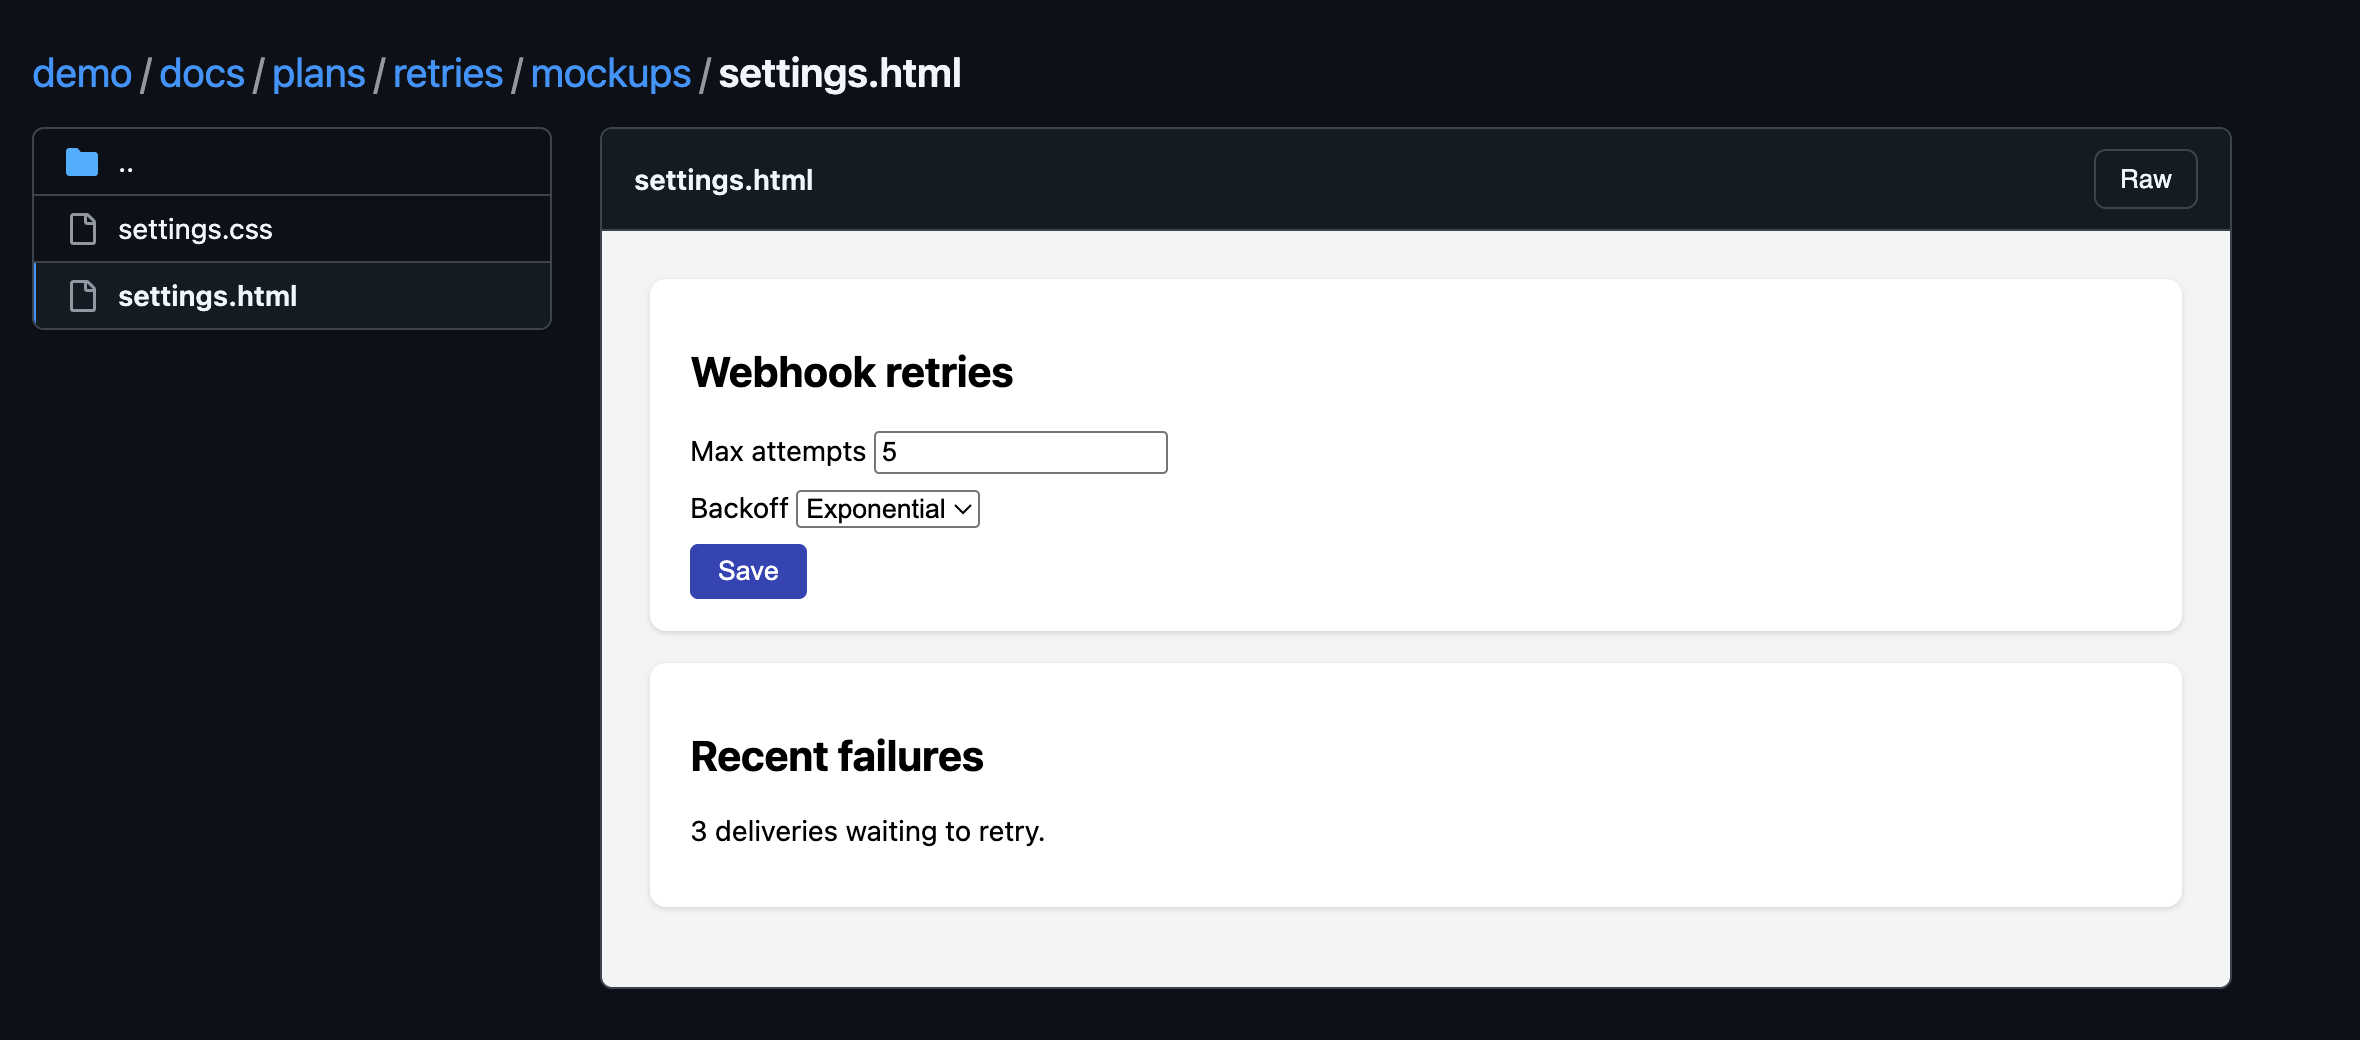
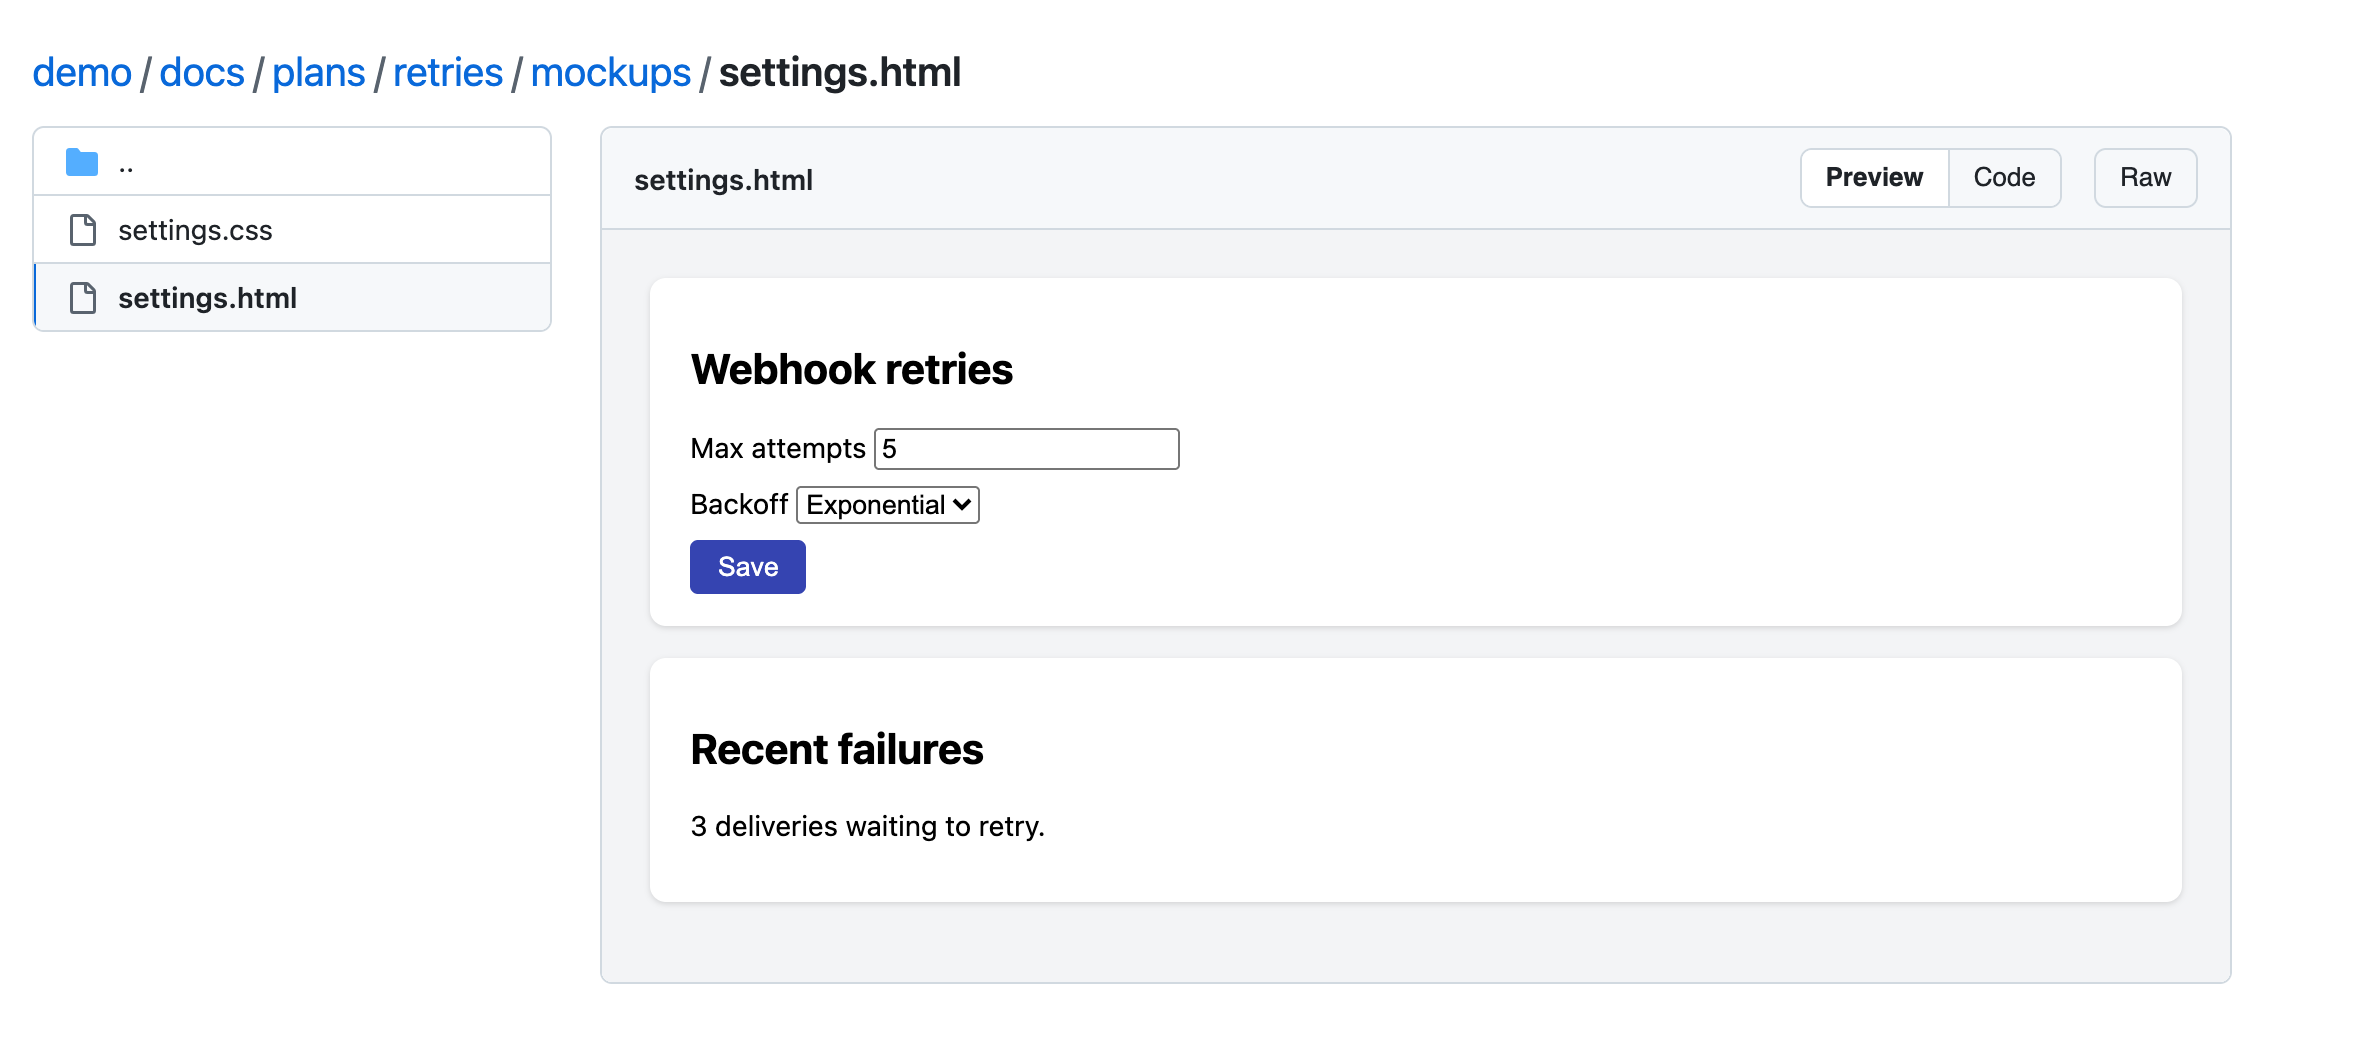
feat(markdown-preview): Preview | Code switch for mockups and SVGs
A mockup or SVG shows drawn by default; the header's switch shows its
source instead, as github.com offers for an SVG. The choice sticks to
the tab.

Claude-Session: https://claude.ai/code/session_019ewLWMqbnG4YNrkNa2cqX5

diff --git a/plugins/umbraco-devkit/skills/markdown-preview/scripts/page/app.js b/plugins/umbraco-devkit/skills/markdown-preview/scripts/page/app.js
@@ -41,6 +41,23 @@ function fitFrames() {
   }));
 }
 
+// A mockup or SVG shows drawn, or as its source, as GitHub offers for an SVG. The choice
+// sticks to this tab.
+const hasCodeView = () => /\.(html?|svg)$/i.test(page.path);
+let view = (() => { try { return sessionStorage.getItem('view') || 'preview'; } catch { return 'preview'; } })();
+
+function showViewSwitch() {
+  $('view').hidden = !hasCodeView();
+  $('view').querySelectorAll('button').forEach(b => b.setAttribute('aria-pressed', String(b.dataset.view === view)));
+}
+$('view').addEventListener('click', e => {
+  const picked = e.target.closest('button')?.dataset.view;
+  if (!picked || picked === view) return;
+  view = picked;
+  try { sessionStorage.setItem('view', view); } catch {}
+  load();
+});
+
 async function load() {
   // Don't wipe a comment someone is halfway through writing.
   if (document.querySelector('.thread.new textarea')?.value || document.querySelector('.thread.editing')) return setTimeout(load, 1000);
@@ -48,7 +65,7 @@ async function load() {
   try {
     const y = pageFresh ? 0 : scrollY;
     await loadFileList();
-    const res = await fetch('/__render?path=' + encodeURIComponent(page.docPath));
+    const res = await fetch('/__render?path=' + encodeURIComponent(page.docPath) + (hasCodeView() && view === 'code' ? '&view=code' : ''));
     const box = $('doc');
     if (res.status === 404 && page.isFolder) {
       box.hidden = true;  // a folder without a README shows just its file list
@@ -59,6 +76,7 @@ async function load() {
       content.classList.toggle('file-view', !page.isDoc);
       $('raw').hidden = page.isDoc;
       $('raw').href = encodeURI(page.path) + '?raw=1';
+      showViewSwitch();
       fitFrames();
       box.hidden = false;
       enhance();

diff --git a/plugins/umbraco-devkit/skills/markdown-preview/scripts/page/index.html b/plugins/umbraco-devkit/skills/markdown-preview/scripts/page/index.html
@@ -15,7 +15,7 @@
 <div class="layout">
 <aside><details id="filebox"><summary>Files in this folder</summary><div id="files"></div></details></aside>
 <div class="box" id="doc" hidden>
-  <div class="box-header"><span class="doc-title"><span id="docname">{{docname}}</span><span id="changes"></span></span><span class="doc-actions"><span class="count" id="count"></span><span id="approval"></span><a class="btn" id="raw" target="_blank" title="Open the file on its own" hidden>Raw</a></span></div>
+  <div class="box-header"><span class="doc-title"><span id="docname">{{docname}}</span><span id="changes"></span></span><span class="doc-actions"><span class="count" id="count"></span><span id="approval"></span><span class="seg" id="view" hidden><button data-view="preview">Preview</button><button data-view="code">Code</button></span><a class="btn" id="raw" target="_blank" title="Open the file on its own" hidden>Raw</a></span></div>
   <article id="content" class="markdown-body"></article>
 </div>
 </div>

diff --git a/plugins/umbraco-devkit/skills/markdown-preview/scripts/page/page.css b/plugins/umbraco-devkit/skills/markdown-preview/scripts/page/page.css
@@ -38,6 +38,12 @@ aside summary { display: none; }
 #content .frame { display: block; width: 100%; height: 600px; border: 0; border-radius: 0 0 5px 5px; }
 #content .frame.pdf { height: 80vh; }
 #raw { margin-left: 0; text-decoration: none; }
+/* Preview | Code, as GitHub's segmented switch. */
+.seg { display: inline-flex; border: 1px solid var(--border); border-radius: 6px; overflow: hidden; }
+.seg[hidden] { display: none; }
+.seg button { padding: 4px 12px; border: 0; background: var(--header); color: var(--fg); font: 500 13px/20px sans-serif; cursor: pointer; }
+.seg button + button { border-left: 1px solid var(--border); }
+.seg button[aria-pressed="true"] { background: var(--bg); font-weight: 600; }
 .cant-show { text-align: center; padding: 32px 16px; color: var(--muted); }
 .cant-show p { margin-bottom: 8px; }
 .sr-only { position: absolute; width: 1px; height: 1px; overflow: hidden; clip: rect(0 0 0 0); white-space: nowrap; }

diff --git a/scripts/tests/test_markdown_preview.py b/scripts/tests/test_markdown_preview.py
@@ -333,12 +333,14 @@ class ServerTests(TempRepo):
             f.write(b"\x00\x01\x02")
         nav = {"Sec-Fetch-Dest": "document"}
         folder = "/docs/plans/retries/"
-        render = lambda name: self.request("GET", "/__render?path=" + urllib.parse.quote(folder + name))[3]
+        render = lambda name, extra="": self.request("GET", "/__render?path=" + urllib.parse.quote(folder + name) + extra)[3]
         for name in ("retry.cs", "data.bin", "mockup.html", "flow.svg"):
             self.assertIn('<script id="boot"', self.request("GET", folder + name, headers=nav)[3], name)
         self.assertEqual(self.request("GET", folder + "mockup.html", headers={"Sec-Fetch-Dest": "iframe"})[3], "<p>Mockup</p>")
         self.assertIn('<iframe class="frame" src="/docs/plans/retries/mockup.html?raw=1"', render("mockup.html"))
         self.assertIn('<img src="/docs/plans/retries/flow.svg?raw=1"', render("flow.svg"))
+        self.assertIn("<p>```html\n<p>Mockup</p>", render("mockup.html", "&view=code"))  # Preview | Code
+        self.assertIn("<p>```svg\n<svg>", render("flow.svg", "&view=code"))
         self.assertEqual(self.request("GET", folder + "retry.cs")[3], "var s = \"```\";\n")
         self.assertEqual(self.request("GET", folder + "data.bin?raw=1", headers=nav)[3], "\x00\x01\x02")
         self.assertIn("<p>````cs\nvar s", render("retry.cs"))

diff --git a/plugins/umbraco-devkit/skills/markdown-preview/scripts/server.py b/plugins/umbraco-devkit/skills/markdown-preview/scripts/server.py
@@ -40,6 +40,12 @@ def embedded(found, url_path):
     return None
 
 
+def has_code_view(found):
+    """Files drawn by the browser that are also worth reading as source: HTML and SVG, as
+    GitHub offers Preview and Code for an SVG."""
+    return mimetypes.guess_type(found)[0] in ("text/html", "image/svg+xml")
+
+
 def source_text(found):
     """A file's text, if it's text and small enough to show as code; else None."""
     if os.path.getsize(found) > MAX_SOURCE:
@@ -223,7 +229,7 @@ class Handler(BaseHTTPRequestHandler):
                 with open(found, encoding="utf-8") as f:
                     return self.send(200, self.server.renderer.render(f.read()))
             embed = embedded(found, self.query["path"])
-            if embed:
+            if embed and not (self.query.get("view") == "code" and has_code_view(found)):
                 return self.send(200, embed)
             text = source_text(found)
             if text is None:

diff --git a/plugins/umbraco-devkit/skills/markdown-preview/SKILL.md b/plugins/umbraco-devkit/skills/markdown-preview/SKILL.md
@@ -207,7 +207,8 @@ A phase that writes a doc a person reviews (`BRIEF.md`, `ARCHITECTURE.md`, `SPEC
   draws those in the browser.
 - **Other files** open in the page, read-only, as on github.com: source as coloured code,
   images and media in place, anything else (or anything over 512 KB) as a note. HTML mockups
-  and PDFs show live in the page, where github.com shows a mockup's source. The header's
-  **Raw** button opens any of them on its own.
+  and PDFs show live in the page, where github.com shows a mockup's source; a **Preview |
+  Code** switch, as github.com has for an SVG, shows a mockup's or SVG's source instead. The
+  header's **Raw** button opens any of them on its own.
 - **Local images, SVGs included,** load from the worktree. One that's broken here will be
   broken on GitHub too.
